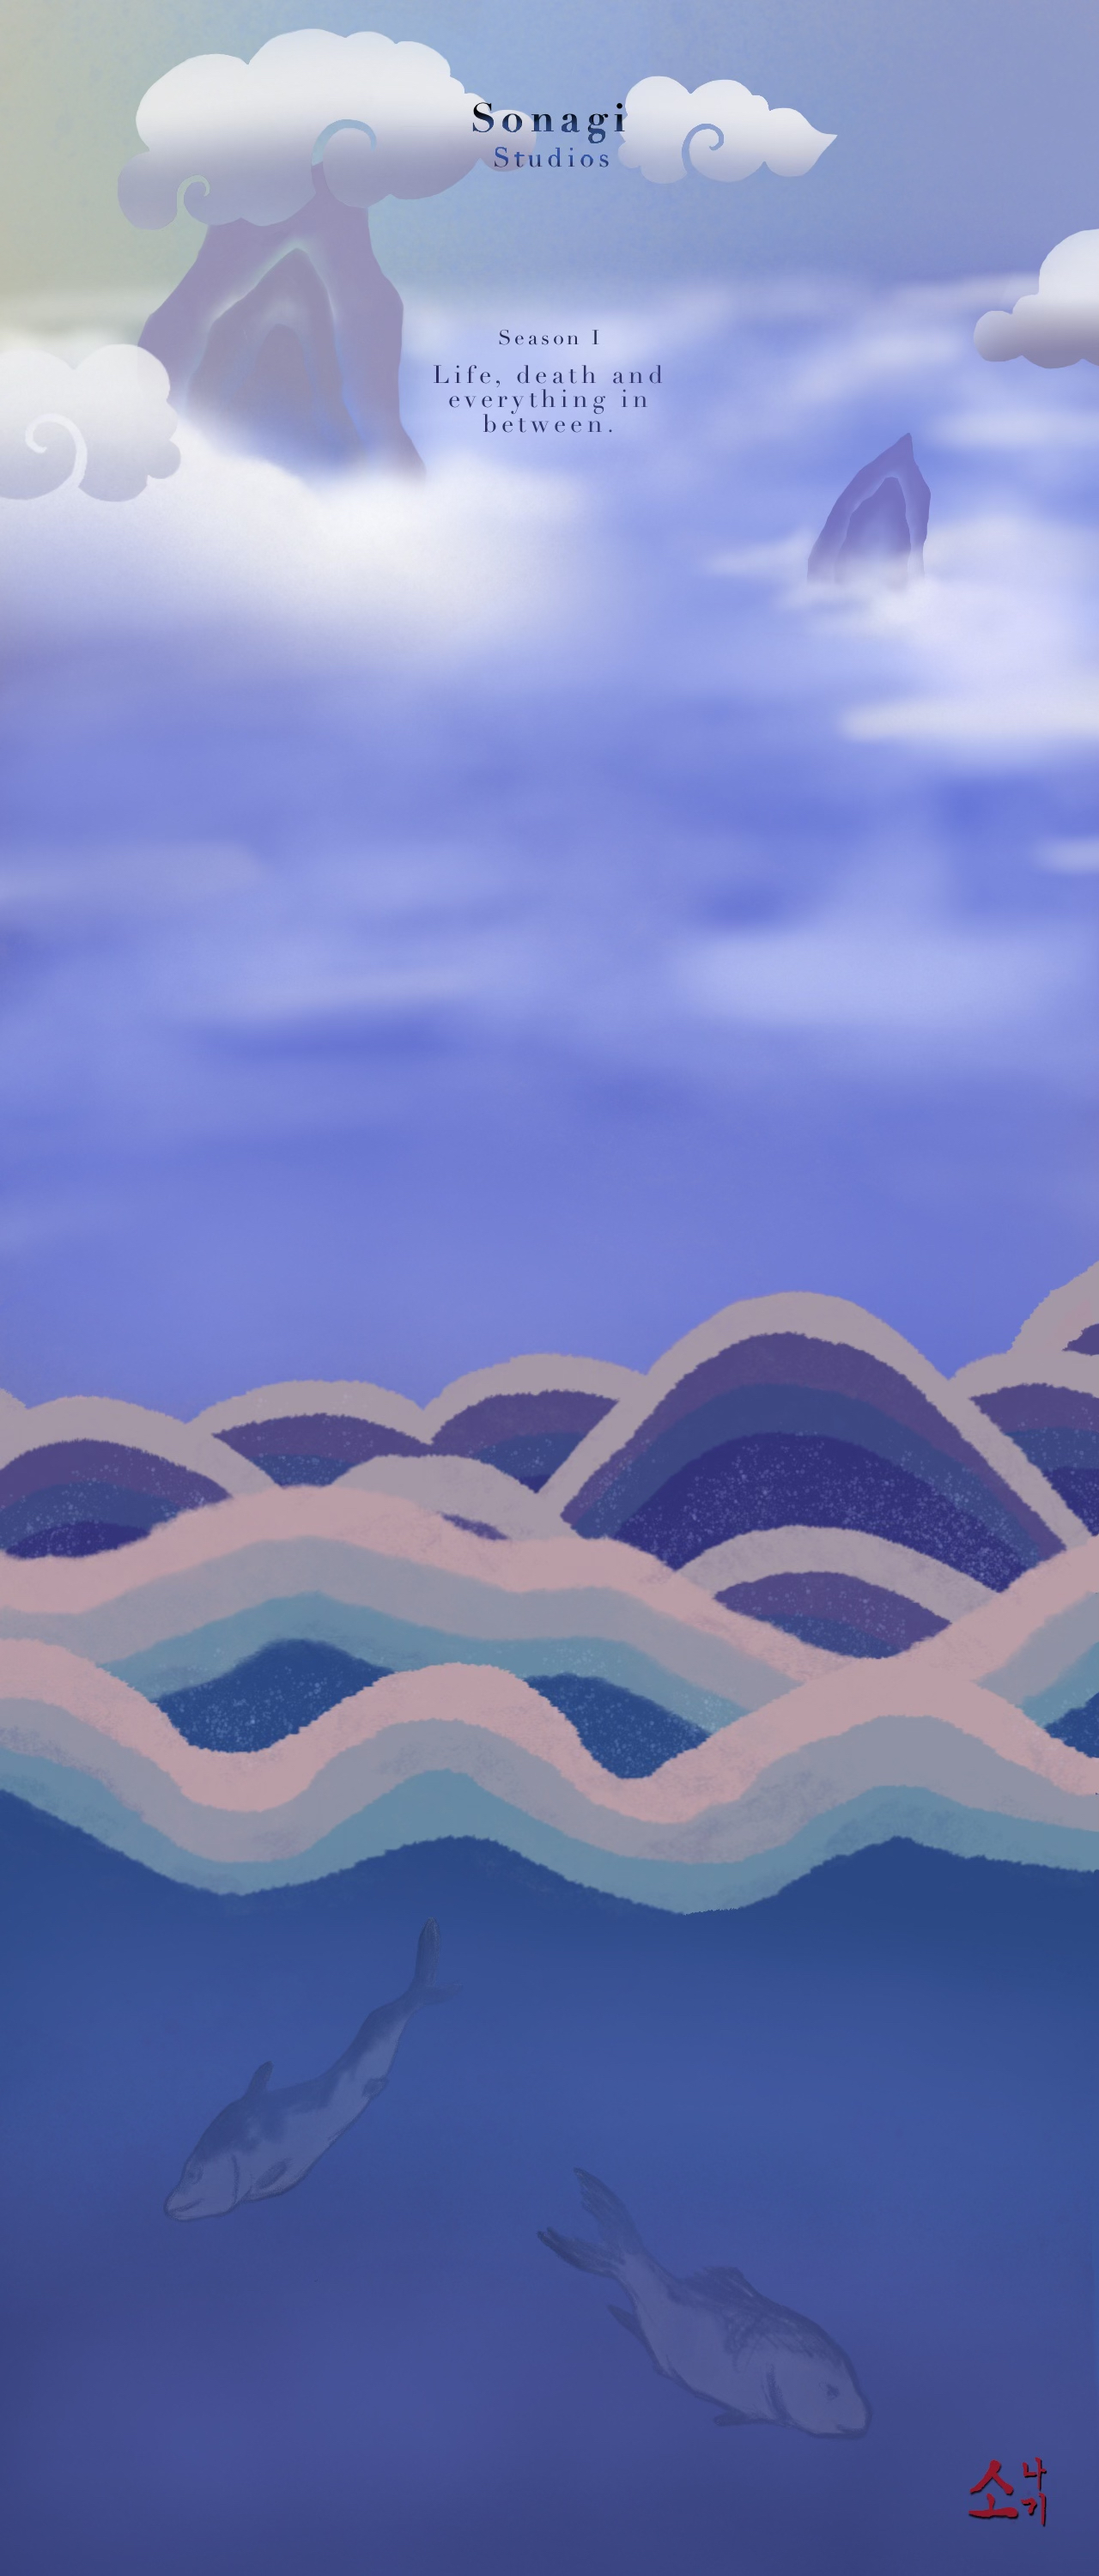
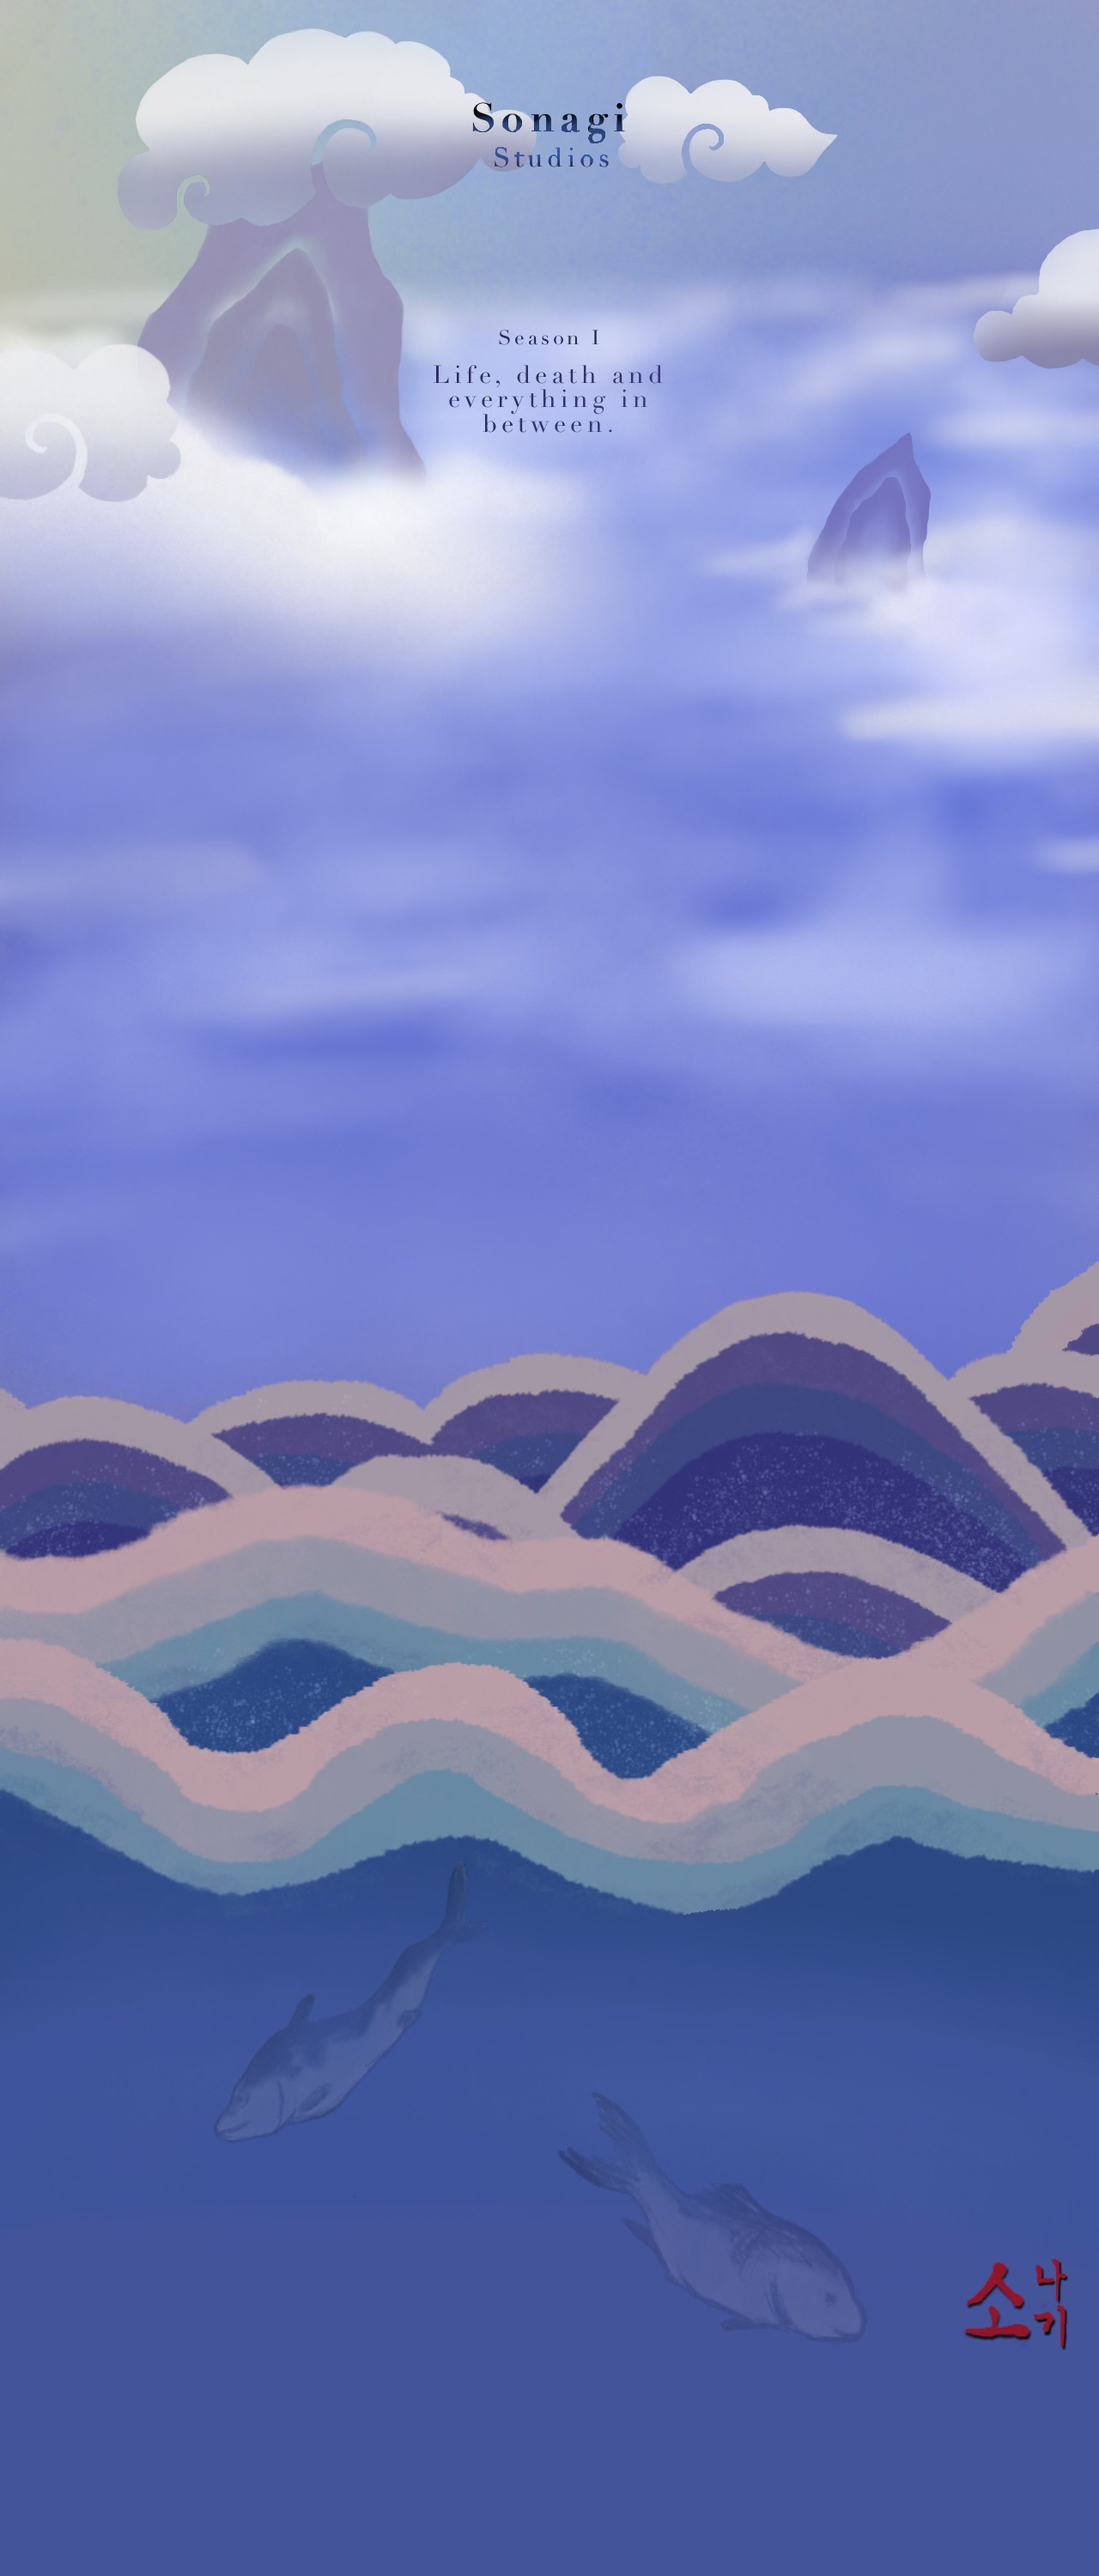
Homepage brand and season theme styled.

diff --git a/server/public/styles.css b/server/public/styles.css
@@ -1,10 +1,59 @@
 /* Homepage */
 .bg {
   background-image: url("/images/giwajip.jpg");
-  height: calc(100vw/(1280/3000));
+  height: calc(100vw/(1370/3000));
   background-position: center top;
   background-repeat: no-repeat;
   background-size: 100% auto;
+}
+
+.brand h1 {
+  margin: 0;
+  padding: 0;
+  text-align: center;
+  font-family: "GFS Didot", serif;
+  font-size: 3.5rem;
+  letter-spacing: 0.5rem;
+  background: linear-gradient(rgb(12, 28, 31), rgb(46, 87, 141));
+  /* stylelint-disable-next-line property-no-vendor-prefix */
+  -webkit-background-clip: text;
+  color: transparent;
+}
+
+.brand h2 {
+  margin: 0;
+  padding: 0;
+  text-align: center;
+  font-family: "GFS Didot", serif;
+  font-size: 2rem;
+  font-weight: lighter;
+  letter-spacing: 0.3rem;
+  background: linear-gradient(rgb(87, 120, 185), rgb(30, 48, 104));
+  /* stylelint-disable-next-line property-no-vendor-prefix */
+  -webkit-background-clip: text;
+  color: transparent;
+}
+
+.season {
+  margin-top: 8rem;
+  align-content: center;
+}
+
+.season p {
+  margin: 0;
+  padding: 0;
+  text-align: center;
+  font-family: "GFS Didot", serif;
+  font-size: 1.5rem;
+  letter-spacing: 0.3rem;
+  color: rgb(38, 48, 101);
+}
+
+p.theme {
+  margin-top: 0.5rem;
+  padding: 0 2rem;
+  font-size: 2rem;
+  letter-spacing: 0.25rem;
 }
 
 /* Footer */

diff --git a/client/pages/home.jsx b/client/pages/home.jsx
@@ -6,9 +6,14 @@ export default function Home(props) {
     <>
       <div className='bg'>
         <div className='container'>
-          <div className='row'>
-            <div className='col-full'>
-              <h1>Hello World</h1>
+          <div className='row wrap justify-center'>
+            <div className='col-full brand'>
+              <h1 className='sonagi-gradient'>Sonagi</h1>
+              <h2 className='studios-gradient'>Studios</h2>
+            </div>
+            <div className='col-third season'>
+              <p>Season I</p>
+              <p className='theme'>Life, death, and everything in between.</p>
             </div>
           </div>
         </div>

diff --git a/server/public/layout.css b/server/public/layout.css
@@ -7,6 +7,14 @@
   display: flex;
 }
 
+.wrap {
+  flex-wrap: wrap;
+}
+
+.justify-center {
+  justify-content: center;
+}
+
 .col-full {
   flex-basis: 100%;
 }
@@ -21,4 +29,8 @@
 
 .col-half {
   flex-basis: 50%;
+}
+
+.col-third {
+  flex-basis: calc(100%/3);
 }
